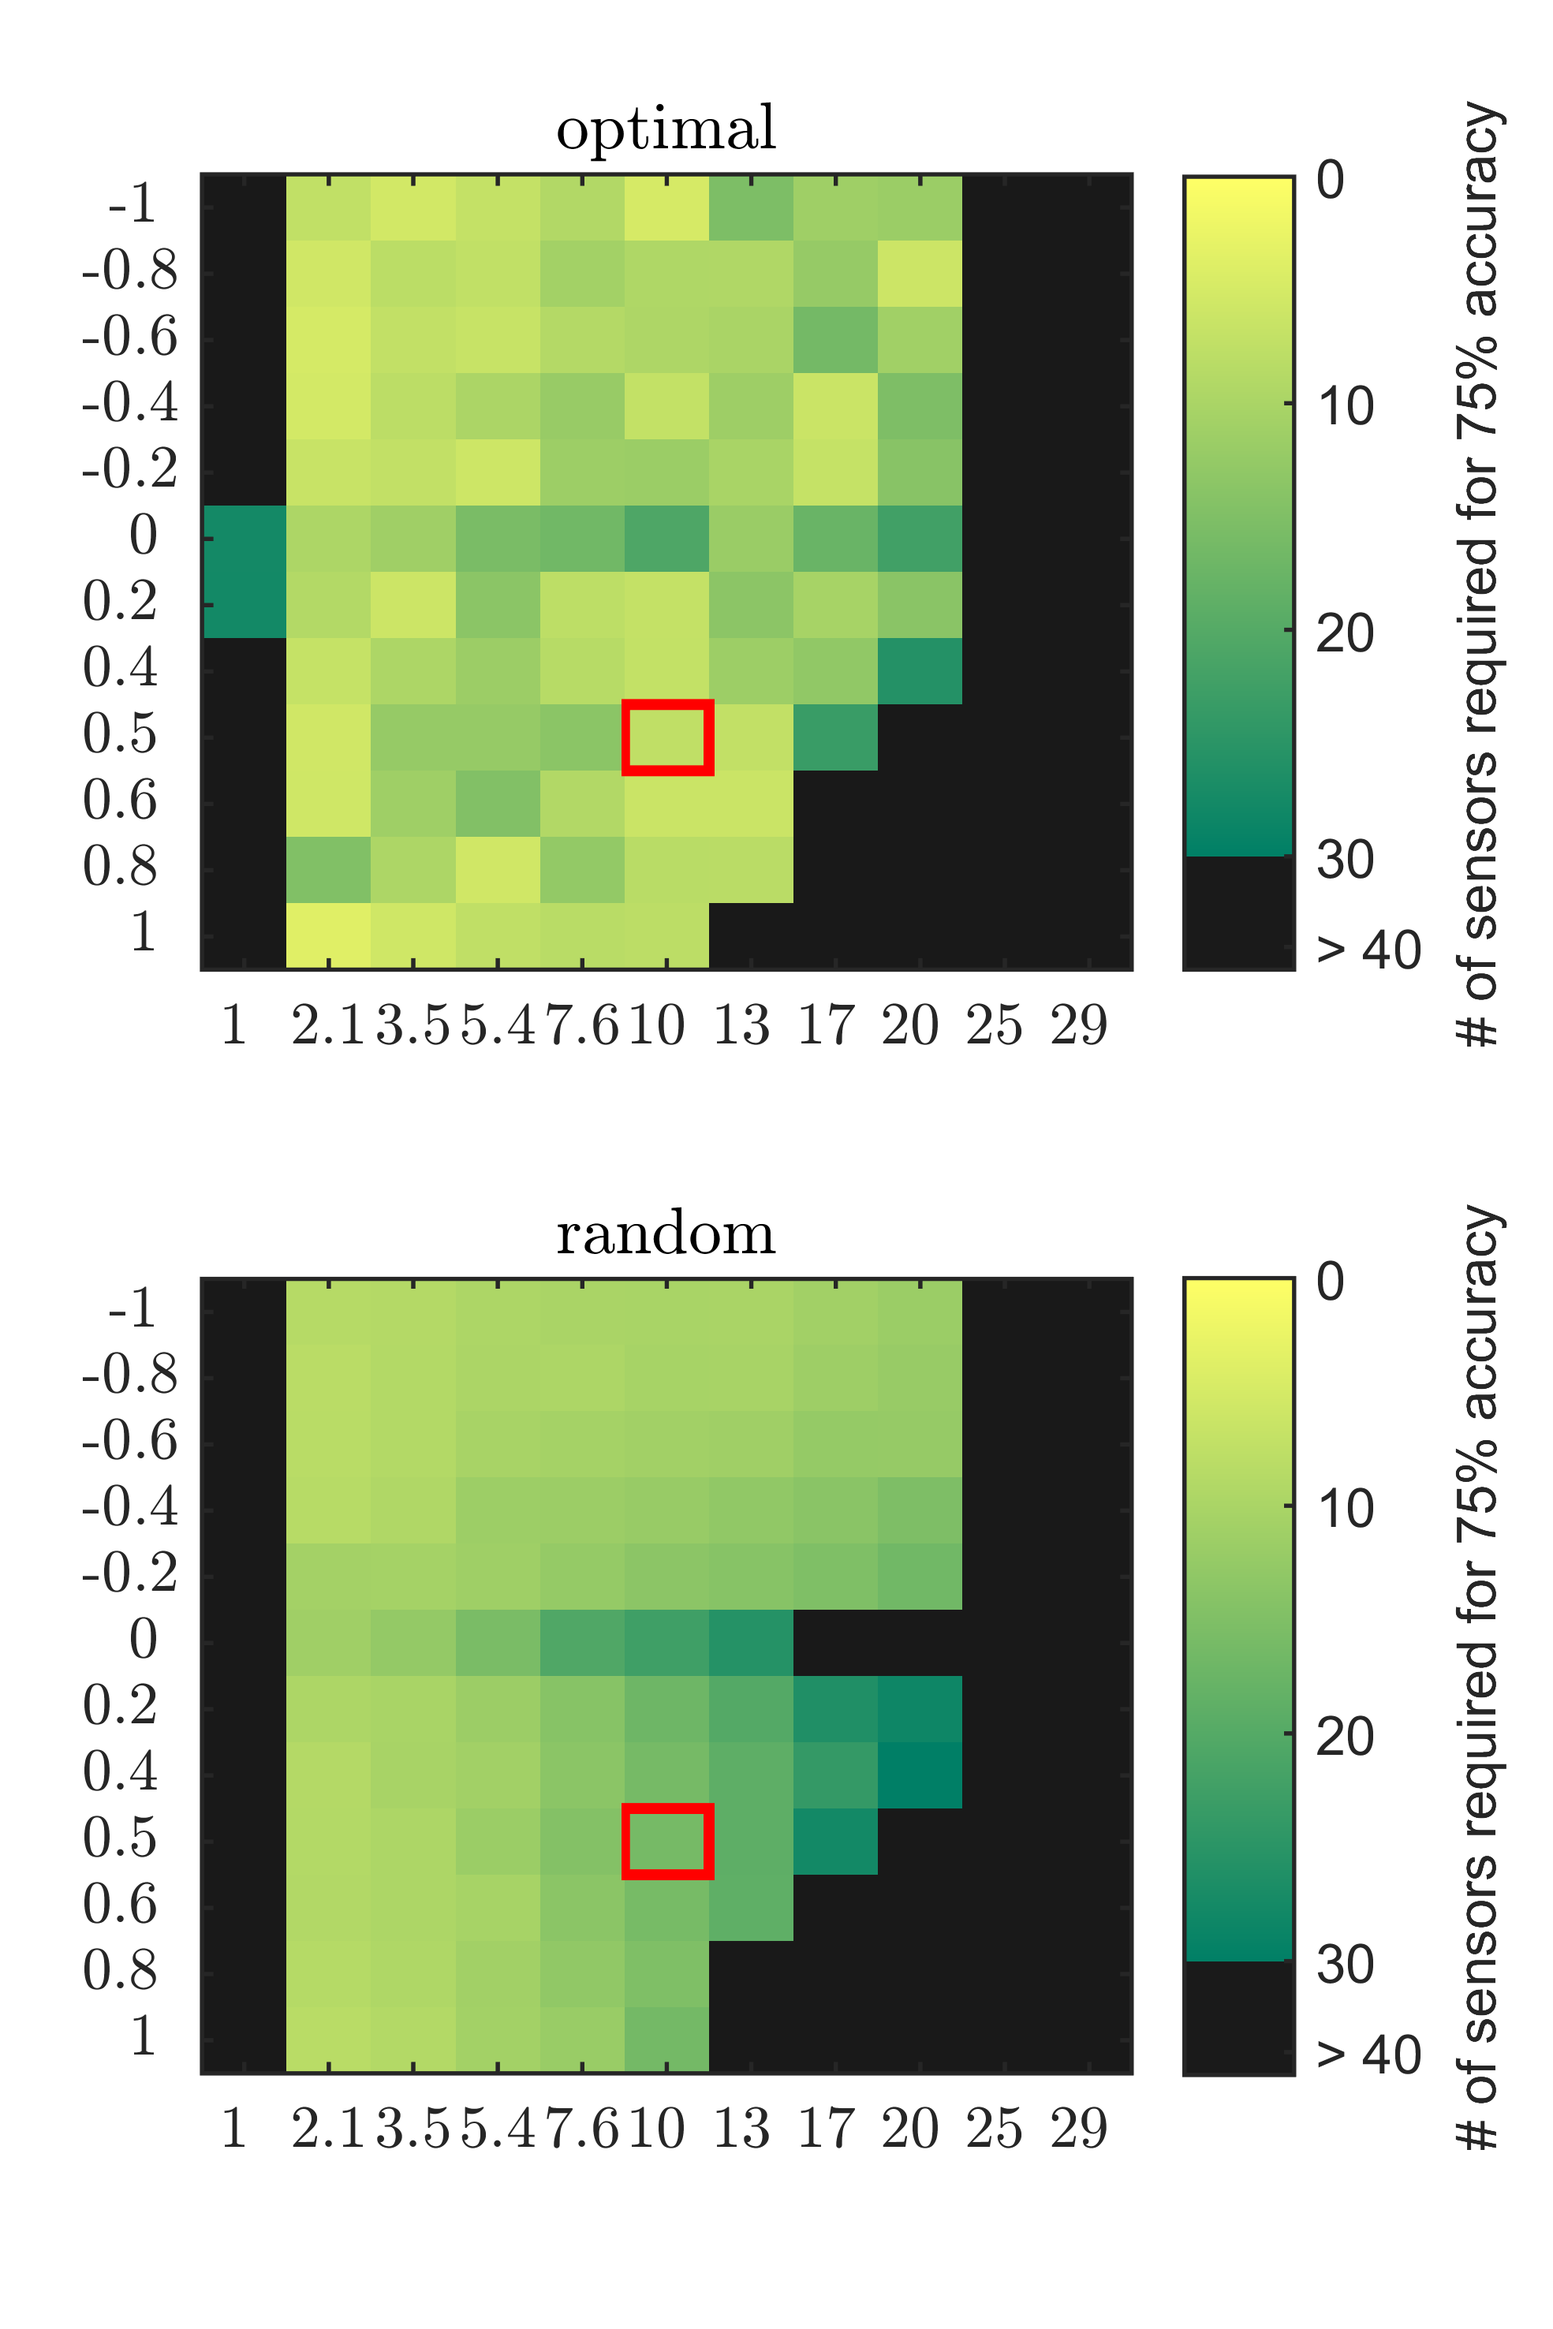
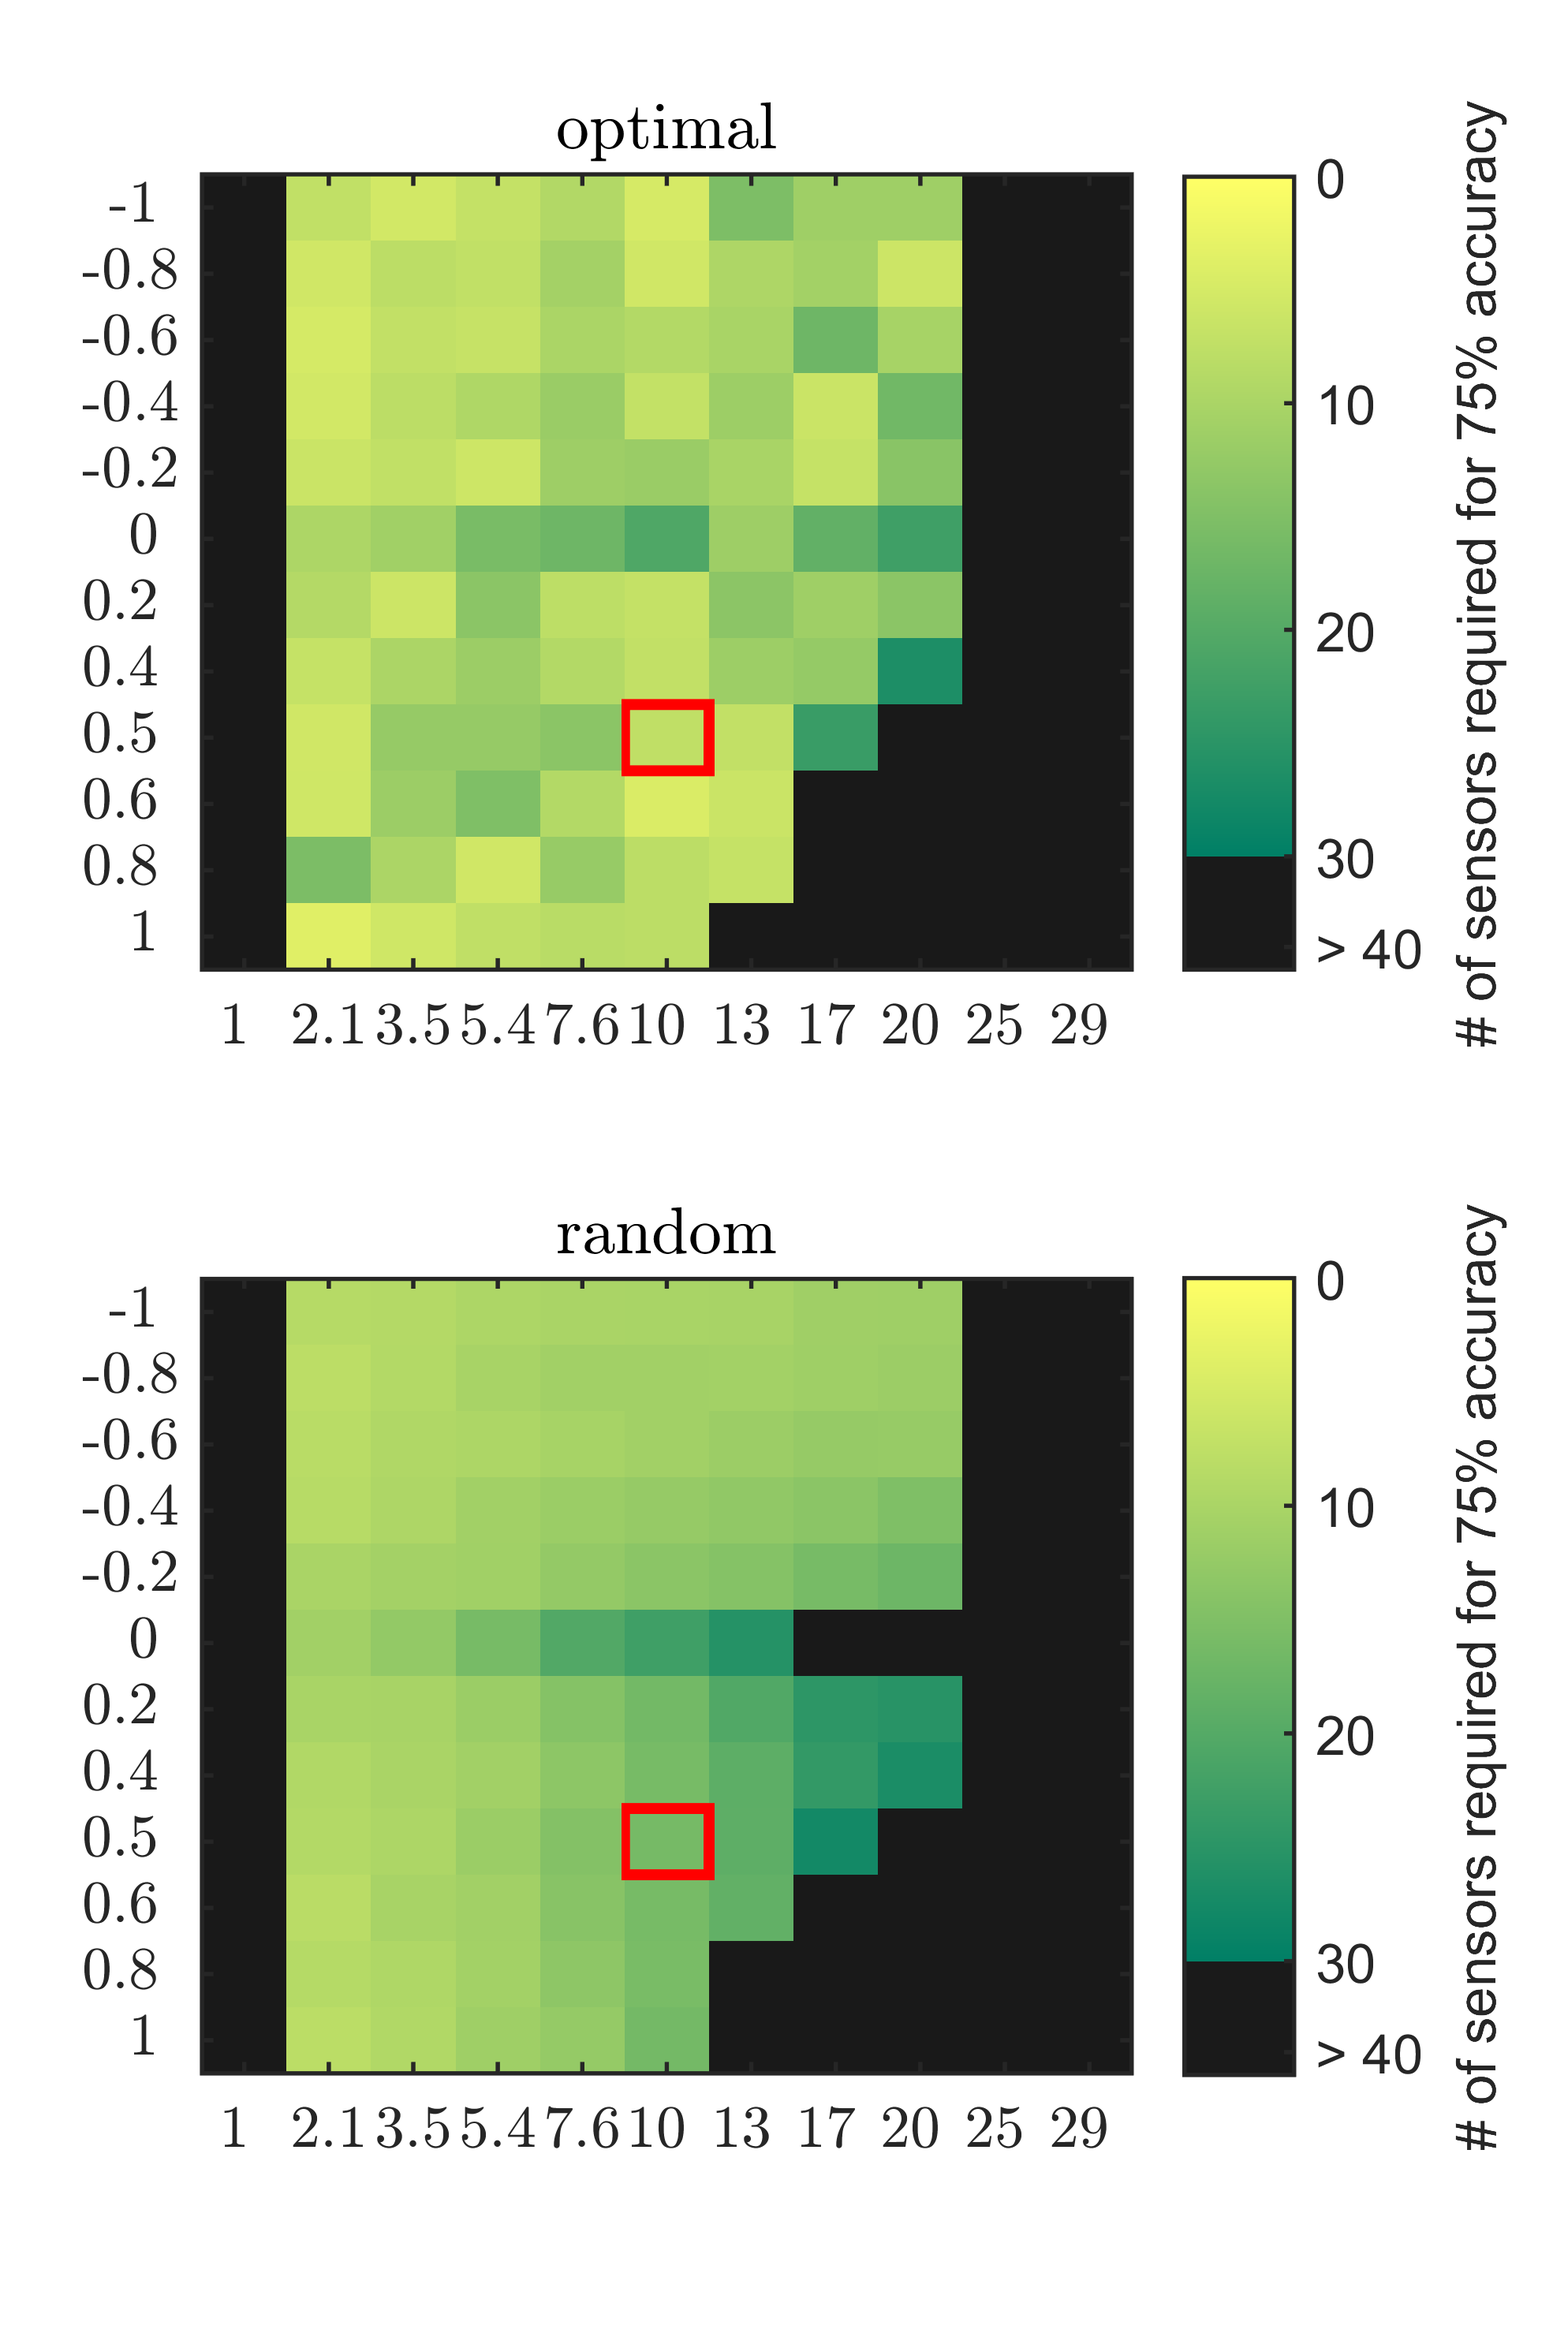
figure updates

Changed region(s): [[0.5576, 0.7166, 0.6196, 0.7789], [0.4027, 0.0935, 0.4647, 0.1558], [0.1239, 0.2181, 0.1859, 0.2804]]

diff --git a/scripts/run_subPartPaperAnalysis.m b/scripts/run_subPartPaperAnalysis.m
@@ -43,7 +43,7 @@ fixPar.subPart = 1;
 % % % varParStruct = varParStruct(1);
 %% Run eulerLagrangeSimulation (optional) and sparse sensor placement algorithm
 tic 
-for j = 1:length(varParStruct)
+parfor j = 1:length(varParStruct)
     
     varPar = varParStruct(j);
     % Initialize matrices for this particular parameter set----------------
@@ -81,21 +81,22 @@ for j = 1:length(varParStruct)
 %             fprintf(['W_trunc = %1.0f, gave error \n'],[varPar.wTrunc])
 %         end
     end
-    % save classification accuracy and sensor location in small .mat file
-    fillString = 'Data_%s_dT%g_dP%g_sOn%g_STAw%g_STAf%g_NLDs%g_NLDg%g_wT%g_';
-    fillCell = {fixPar.saveNameParameters ,varPar.theta_dist , varPar.phi_dist, varPar.SSPOCon , ...
-                varPar.STAwidth , varPar.STAfreq , varPar.NLDshift , varPar.NLDgrad , varPar.wTrunc };
-            
-    saveNameBase = sprintf( fillString,fillCell{:} );
-    saveName = [saveNameBase,computer,'_',datestr(datetime('now'), 30),'.mat'];
-    save(  ['accuracyData',filesep, saveName]  ,'DataMat','SensMat','fixPar','varPar')
-    fprintf('Runtime = %g[s], Saved as: %s \n',[toc,saveName]) 
+%     % save classification accuracy and sensor location in small .mat file
+%     fillString = 'Data_%s_dT%g_dP%g_sOn%g_STAw%g_STAf%g_NLDs%g_NLDg%g_wT%g_';
+%     fillCell = {fixPar.saveNameParameters ,varPar.theta_dist , varPar.phi_dist, varPar.SSPOCon , ...
+%                 varPar.STAwidth , varPar.STAfreq , varPar.NLDshift , varPar.NLDgrad , varPar.wTrunc };
+%             
+%     saveNameBase = sprintf( fillString,fillCell{:} );
+%     saveName = [saveNameBase,computer,'_',datestr(datetime('now'), 30),'.mat'];
+%     save(  ['accuracyData',filesep, saveName]  ,'DataMat','SensMat','fixPar','varPar')
+%     fprintf('Runtime = %g[s], Saved as: %s \n',[toc,saveName]) 
     
     % Sync to github(git required) once every 100 parameter combinations or if last combination is reached 
-    if ~(mod(j, 100)~= 0 && j ~= length(varParStruct))
-        system('git pull');
-        system('git add data/*.mat');
-        system(sprintf('git commit * -m "pushing data from more runs %i"', j));
-        system('git push');
-    end;
+%     if ~(mod(j, 100)~= 0 && j ~= length(varParStruct))
+%         system('git pull');
+%         system('git add data/*.mat');
+%         system(sprintf('git commit * -m "pushing data from more runs %i"', j));
+%         system('git push');
+%     end;
 end
+toc

diff --git a/functions/sigmFitParam.m b/functions/sigmFitParam.m
@@ -1,40 +1,33 @@
 function [q ] = sigmFitParam( x,y,varargin )
-%UNTITLED Summary of this function goes here
+%[q ] = sigmFitParam( x,y,varargin )
 %   Detailed explanation goes here
-%     varargin
-%     varargin{2}
-    
-%     length(varargin)
-%     varargin
-    
+
     p = inputParser; 
     p.addRequired('x', @isfloat);
     p.addRequired('y', @isfloat);
     p.addOptional('plot_show',false, @islogical);
     p.parse(x,y, varargin{:});
     inputs = p.Results; 
-% 
-%     p 
-%     p.plot_show
-%     plot_on =0;
-    x = [-5:0,x];
-    y = [ones(1,6)*0.5,y];
-    modelfun = @(c,x)( 0.5 + c(2) ./ (1+ exp( - (x-c(3))./c(4) )  ) );
-    
-%     modelfun = @(c,x)( c(1) + c(2) ./ (1+ exp( - (x-c(3))./c(4) )  ) );
-    opts = statset('nlinfit');
-    opts.RobustWgtFun = 'bisquare';
-    beta0 = [0.5;0.5;10;1];
 
-    trheshold = 0.75;
-    lastQ = 40;
-%     try
+    if isempty(x) || ~any(y>0.75)
+        q = nan;
+%     elseif
+        
+    else
+        x = [-5:0,x];
+        y = [ones(1,6)*0.5,y];
+        modelfun = @(c,x)( 0.5 + c(2) ./ (1+ exp( - (x-c(3))./c(4) )  ) );
+
+        opts = statset('nlinfit');
+        opts.RobustWgtFun = 'bisquare';
+        beta0 = [0.5;0.5;10;1];
+
+        trheshold = 0.75;
+        lastQ = 30;
         beta = nlinfit(x,y,modelfun,beta0,opts);
-%         beta
         syms xs 
         xa = eval(solve(modelfun(beta,xs) == trheshold));
 
-%         if isreal( modelfun(beta,xa)  ) == 1 && xa <=30 && xa> 0 ;
         if isreal( modelfun(beta,xa)  ) == 1 && xa <=lastQ && xa> 0 ;
             q = xa;
         elseif ~any(modelfun(beta,x) <=trheshold)
@@ -42,7 +35,7 @@ function [q ] = sigmFitParam( x,y,varargin )
         else
             q = nan;
         end
-        
+
         if inputs.plot_show == true
             hold on 
             plot(x,modelfun(beta,x),'k--','LineWidth',1)
@@ -51,9 +44,7 @@ function [q ] = sigmFitParam( x,y,varargin )
                 plot([q,q],[0.4,1],':k','LineWidth',1)
             end
         end
-%     catch
-%        q = nan;
-%     end
-
+    end
+    q 
 end
 

diff --git a/sigmFitDevelop.m b/sigmFitDevelop.m
@@ -1,0 +1,71 @@
+%---------------------
+% TMohren
+% develop sigmFitParam function 
+% --------------------------
+
+clc;clear all;close all
+
+%% regular case
+x = 0:1:30;
+% x = 15:1:30;
+beta0 = [0.5;0.4;10;1];
+modelfun = @(c,x)( 0.5 + c(2) ./ (1+ exp( - (x-c(3))./c(4) )  ) );
+y_clean = modelfun(beta0,x);
+y_dist = randn(1,length(x));
+y = y_clean + 0.06*y_dist;
+
+figure();
+plot(x,y,'-o')
+[q ] = sigmFitParam( x,y,'plot_show',true);
+
+%% 0only top data 
+
+% x = 0:1:30;
+x = 15:1:30;
+beta0 = [0.5;0.4;10;1];
+modelfun = @(c,x)( 0.5 + c(2) ./ (1+ exp( - (x-c(3))./c(4) )  ) );
+y_clean = modelfun(beta0,x);
+y_dist = randn(1,length(x));
+y = y_clean + 0.06*y_dist;
+
+figure();
+plot(x,y,'-o')
+[q ] = sigmFitParam( x,y,'plot_show',true);
+
+%% no data 
+
+% x = 0:1:30;
+x = zeros(1,0);
+y = x;
+
+figure();
+plot(x,y,'-o')
+[q ] = sigmFitParam( x,y,'plot_show',true);
+
+%% no data 
+
+x = 0:1:30;
+% x = zeros(1,0);
+y = [ones(1,5)*0.5, ones(1,26)*0.9];
+y(10:13) = 0.5;
+y(2:4) = 0.9;
+
+figure();
+plot(x,y,'-o')
+[q ] = sigmFitParam( x,y,'plot_show',true);
+
+%% 0only bottom data 
+
+% x = 0:1:30;
+x = 25:1:30;
+y = ones(size(x))*0.5;
+y(end-1:end) = 0.7;
+% beta0 = [0.5;0.4;10;1];
+% modelfun = @(c,x)( 0.5 + c(2) ./ (1+ exp( - (x-c(3))./c(4) )  ) );
+% y_clean = modelfun(beta0,x);
+% y_dist = randn(1,length(x));
+% y = y_clean + 0.06*y_dist;
+
+figure();
+plot(x,y,'-o')
+[q ] = sigmFitParam( x,y,'plot_show',true);

diff --git a/functions/createParListTotal.m b/functions/createParListTotal.m
@@ -1,10 +1,10 @@
 function [fixPar,varParCombinationsAll, varParStruct ] = createParListTotal( parameterSetName,figuresToRun,iter )
 %UNTITLED Summary of this function goes here
 %   Detailed explanation goes here
-    [fixPar,varParCombinationsAll] = createParSet(parameterSetName,iter)
+    [fixPar,varParCombinationsAll] = createParSet(parameterSetName,iter);
     varParIndex = [];
-    {varParCombinationsAll.resultName} 
-     figuresToRun{1} 
+%     {varParCombinationsAll.resultName} 
+%      figuresToRun{1} 
     for j = 1:length(figuresToRun)
          figMatch = find(~cellfun('isempty', strfind({varParCombinationsAll.resultName} , figuresToRun{j} )));
          varParIndex = [ varParIndex, figMatch];

diff --git a/scripts/run_Figure1.m b/scripts/run_Figure1.m
@@ -118,9 +118,10 @@ grid on
 set(gca, axisOptsFig1A{:})
 drawnow
 
-saveas(fig1A,['figs' filesep 'Figure1A_' parameterSetName '.png'])
+% saveas(fig1A,['figs' filesep 'Figure1A_' parameterSetName '.png'])
 
 
+print(fig1A,,['figs' filesep 'Figure1A_' parameterSetName  '.png'],'-r500','-dpng')
 
 
 

diff --git a/scripts/run_Figure2A.m b/scripts/run_Figure2A.m
@@ -122,7 +122,7 @@ for j = 1:n_y
     end
 end
 
-saveas(fig2A,['figs' filesep 'Figure2A_' parameterSetName '.png'])
+% saveas(fig2A,['figs' filesep 'Figure2A_' parameterSetName '.png'])
 
 print(fig2AB,['figs' filesep 'Figure2AB_' parameterSetName '.png'],'-r500','-dpng')
 %% 
